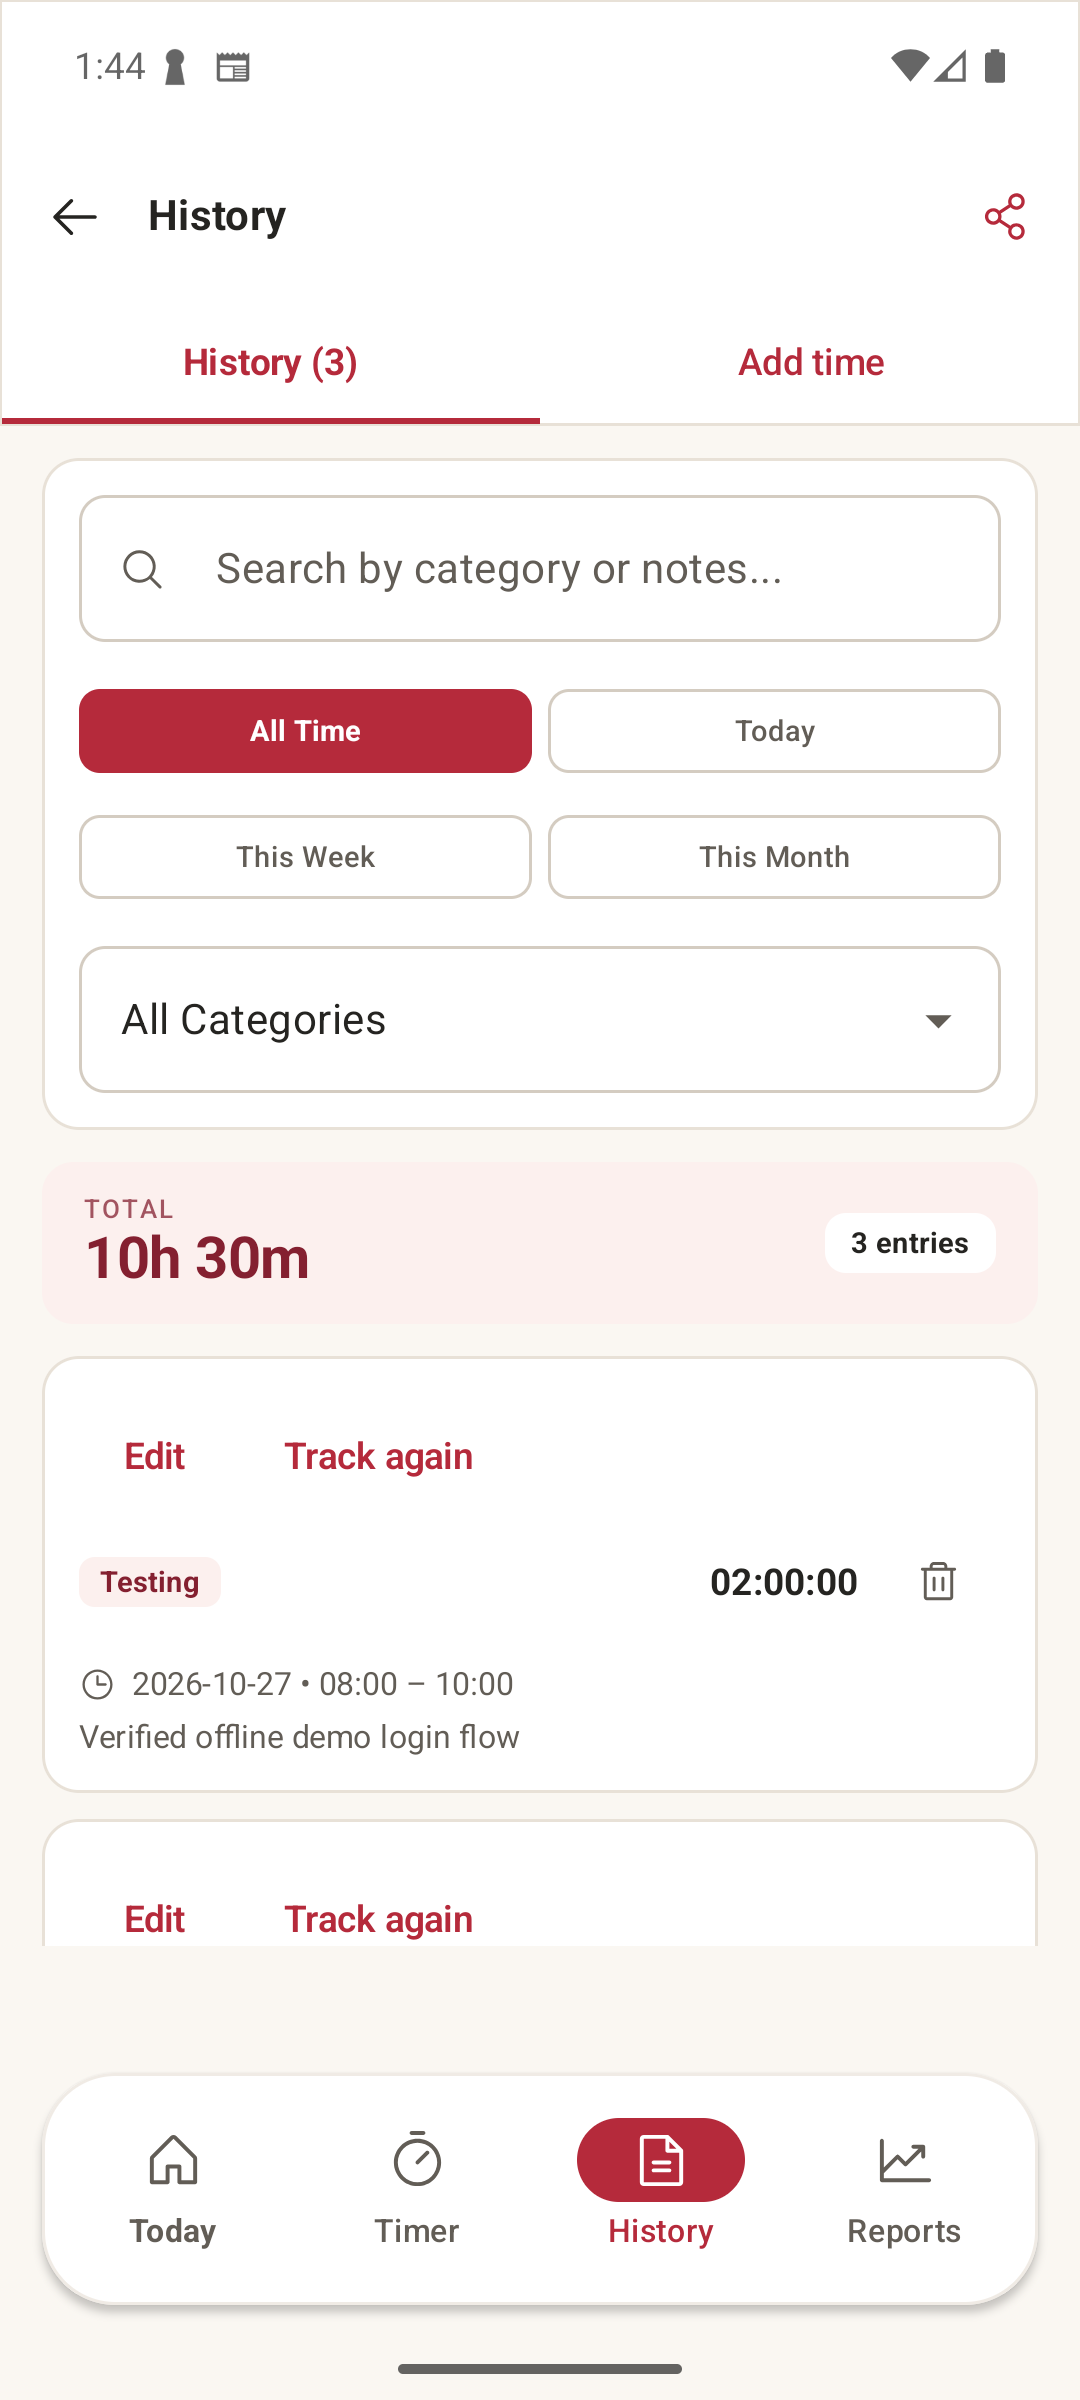
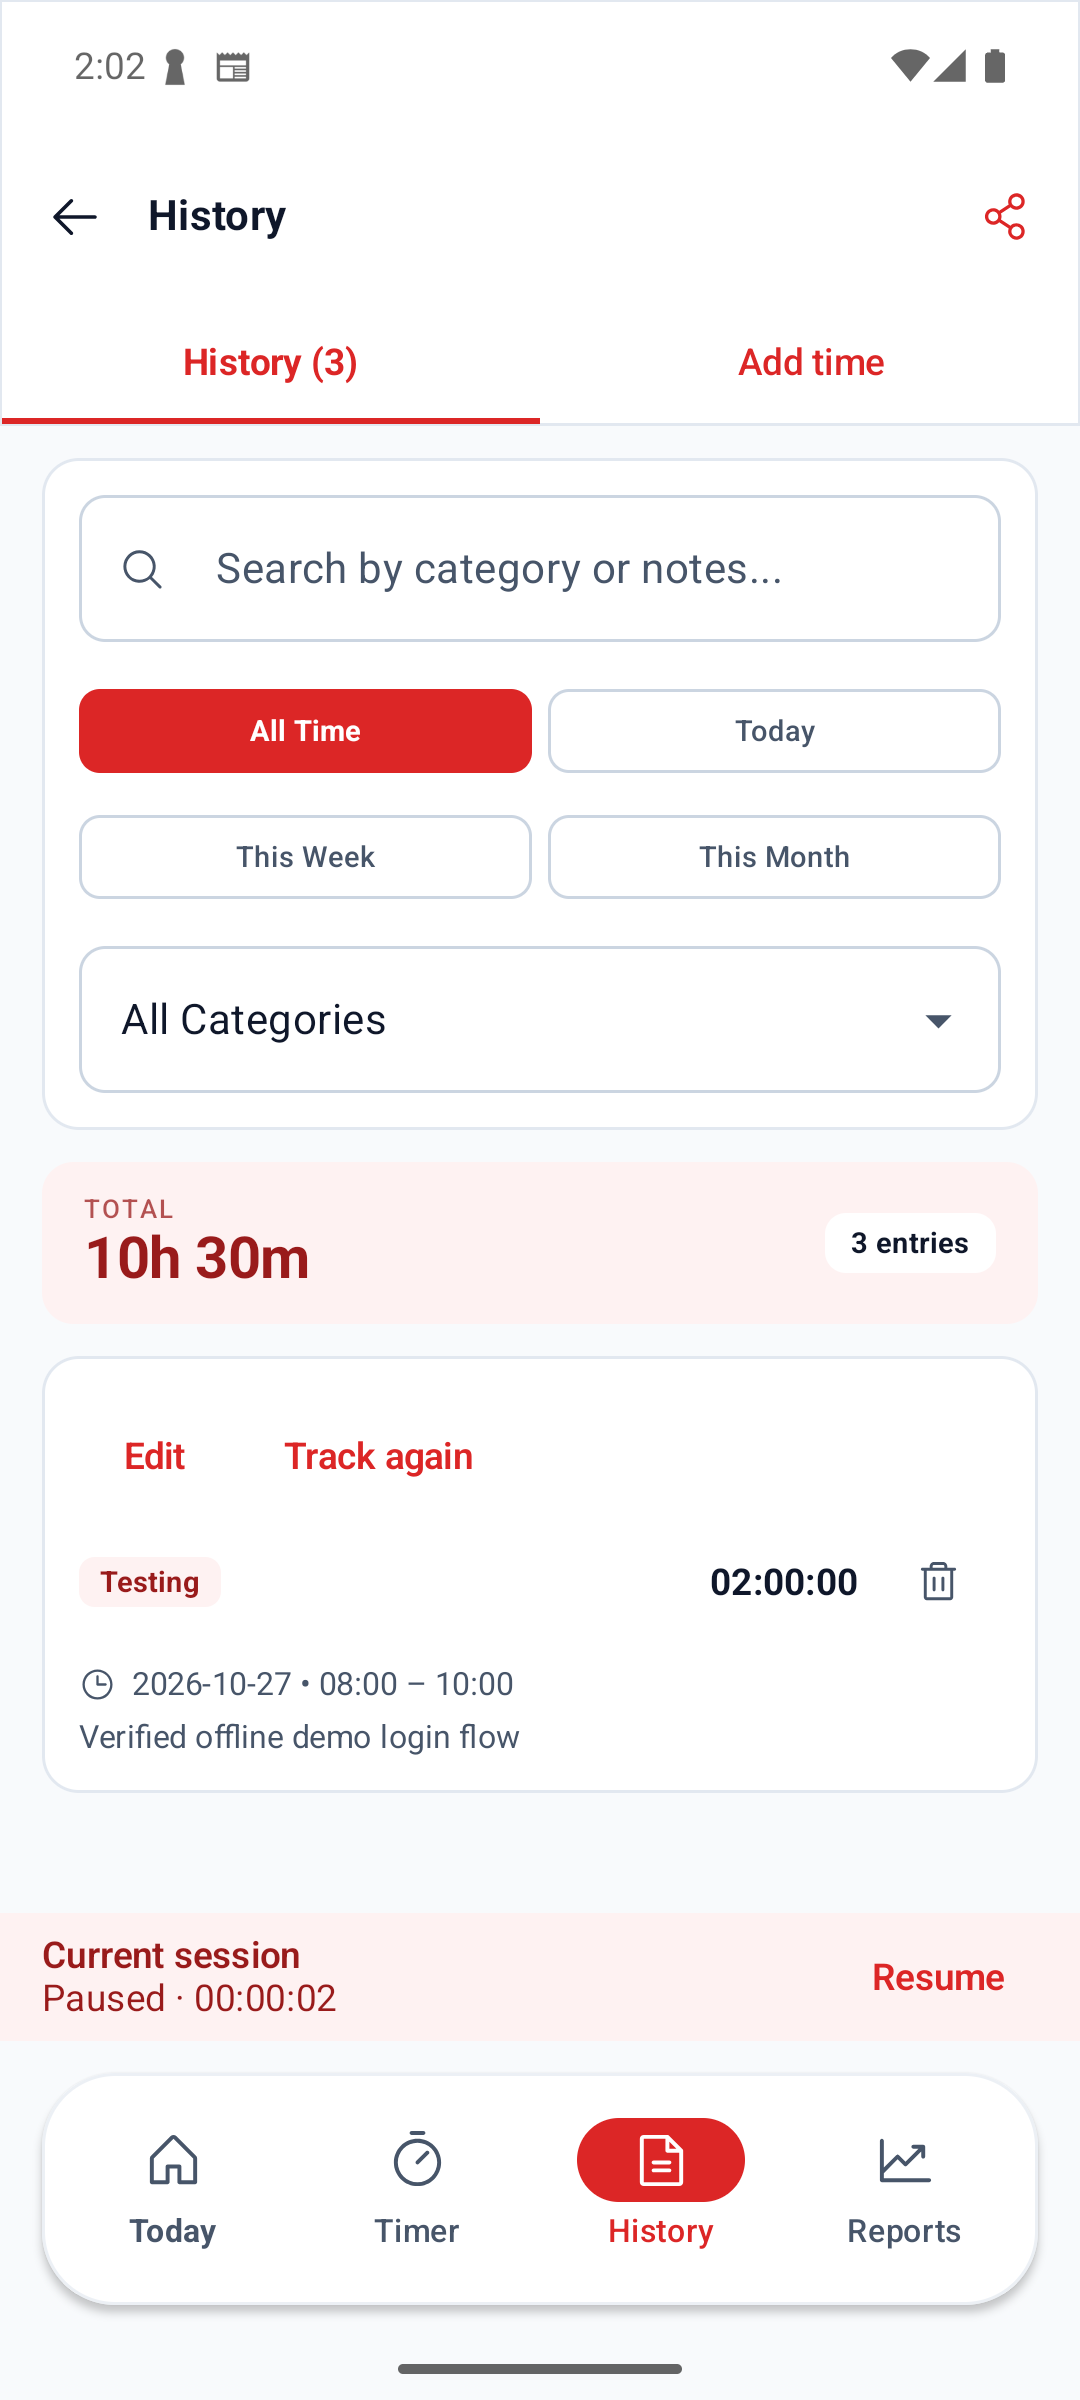
Restore Ace red theme and target-and-arrow identity

diff --git a/app/src/main/java/com/example/acetimetracker/ui/theme/Color.kt b/app/src/main/java/com/example/acetimetracker/ui/theme/Color.kt
@@ -2,23 +2,23 @@ package com.example.acetimetracker.ui.theme
 
 import androidx.compose.ui.graphics.Color
 
-// Ace brand: crimson, warm ivory and charcoal.
-val AceRed = Color(0xFFB52A3B) // Deep Ruby Crimson (Tailwind Red 600)
-val AceRedDark = Color(0xFF842030)
-val AceRedLight = Color(0xFFF8E0E2)
-val AceRedSubtle = Color(0xFFFCF0EE)
+// Premium AceTimeTracker Palette (Modern Executive Design System)
+val AceRed = Color(0xFFDC2626) // Deep Ruby Crimson (Tailwind Red 600)
+val AceRedDark = Color(0xFF991B1B)
+val AceRedLight = Color(0xFFFEE2E2)
+val AceRedSubtle = Color(0xFFFEF2F2)
 
-// Shared neutral tokens (names retained for existing components).
-val Slate900 = Color(0xFF252421)
-val Slate800 = Color(0xFF34322F)
-val Slate700 = Color(0xFF494641)
-val Slate600 = Color(0xFF625D56)
-val Slate500 = Color(0xFF797269)
-val Slate400 = Color(0xFFA49C92)
-val Slate300 = Color(0xFFD4CCC1)
-val Slate200 = Color(0xFFE8E1D7)
-val Slate100 = Color(0xFFF2EDE5)
-val Slate50 = Color(0xFFFAF7F2)
+// Slate Neutral System (Linear / Apple aesthetic)
+val Slate900 = Color(0xFF0F172A)
+val Slate800 = Color(0xFF1E293B)
+val Slate700 = Color(0xFF334155)
+val Slate600 = Color(0xFF475569)
+val Slate500 = Color(0xFF64748B)
+val Slate400 = Color(0xFF94A3B8)
+val Slate300 = Color(0xFFCBD5E1)
+val Slate200 = Color(0xFFE2E8F0)
+val Slate100 = Color(0xFFF1F5F9)
+val Slate50 = Color(0xFFF8FAFC)
 
 // Sophisticated Accents
 val AccentEmerald = Color(0xFF10B981)
@@ -75,7 +75,7 @@ val OutlineVariantLight = Slate200
 val PrimaryDark = Color(0xFFF87171)
 val OnPrimaryDark = Color(0xFF450A0A)
 val PrimaryContainerDark = Color(0xFF7F1D1D)
-val OnPrimaryContainerDark = Color(0xFFF8E0E2)
+val OnPrimaryContainerDark = Color(0xFFFEE2E2)
 
 val SecondaryDark = Slate200
 val OnSecondaryDark = Slate900

diff --git a/app/src/main/java/com/example/acetimetracker/ui/activity/SplashActivity.kt b/app/src/main/java/com/example/acetimetracker/ui/activity/SplashActivity.kt
@@ -88,9 +88,8 @@ fun SplashScreen(modifier: Modifier = Modifier) {
                 color = MaterialTheme.colorScheme.surface,
                 border = androidx.compose.foundation.BorderStroke(1.dp, MaterialTheme.colorScheme.outlineVariant)
             ) {
-                androidx.compose.material3.Icon(
+                Image(
                     painter = painterResource(R.drawable.ace_mark), contentDescription = null,
-                    tint = MaterialTheme.colorScheme.primary,
                     modifier = Modifier.padding(20.dp).size(112.dp)
                 )
             }

diff --git a/app/src/main/java/com/example/acetimetracker/ui/screen/MainScreen.kt b/app/src/main/java/com/example/acetimetracker/ui/screen/MainScreen.kt
@@ -284,7 +284,7 @@ private fun TodayHeroCard(
     Surface(
         modifier = Modifier.fillMaxWidth(),
         shape = RoundedCornerShape(20.dp),
-        color = Slate900
+        color = AceRed
     ) {
         Column(modifier = Modifier.padding(24.dp)) {
             Text(

diff --git a/HANDOFF.md b/HANDOFF.md
@@ -74,3 +74,9 @@ User approved the proposed visual/usability direction and requested implementati
 Verification: 90 JVM tests and 3 device tests passed. Final debug/release builds and both lint variants passed (279 warnings, zero errors). Device tests preceded only the final large-font label adjustment; final JVM/lint/build checks include it. Rendered splash in both themes and bottom dock at 320dp/1.5x font; fixed word wrapping found in that preview. Demo device checks verified Today → Add time, History, report → Timer, and editing/saving a sample entry returning to the same three-entry history. No live account or backend mutation performed.
 
 Release outputs rebuilt and remain unsigned; older checksums above are superseded. Personal .idea changes remain excluded. No source graph refresh tool is available; portable context is current.
+
+## Owner brand correction — 2026-11-16
+
+The owner rejected the A-ring and warm palette as a loss of Ace identity. Restored the original bright-red/slate/white tokens and red dashboard. Replaced the A-ring with simplified red target rings and a blue dart, using matching vector, adaptive launcher, notification silhouette and SVG assets. Retained all navigation/form/empty-state improvements and the brief splash reveal. Refreshed README screenshots.
+
+Verification: local suite and debug/release APK, release bundle and lintRelease passed. Splash preview rendered (preview continued to display a monochrome cached rendering; source uses Image to preserve vector colors). Installed rebuilt debug app and checked navigation while refreshing screenshots. No data or backend changes. Existing release-signing/publication limitations remain.

diff --git a/MEMORY.md b/MEMORY.md
@@ -8,4 +8,4 @@
 - Preserve existing source and IDE changes; do not change the permanent package ID or deploy to the configured Firebase project without verified ownership and explicit scope.
 - See HANDOFF.md for current validation, artifacts, and remaining release requirements.
 
-- Approved November 16 visual direction: warm ivory, charcoal and restrained crimson, with a vector A/clock mark. Primary labels are Today, Timer, History and Reports; Add time is an explicit form route. Large-font navigation uses Log/Stats with full accessibility descriptions.
+- Correction from owner: preserve Ace’s bright red/crisp neutral theme and target-and-arrow identity. The ivory/muted crimson and generic A-ring redesign was rejected. Do not interpret usability improvements as permission to replace the brand identity. Primary labels are Today, Timer, History and Reports; Add time is an explicit form route. Large-font navigation uses Log/Stats with full accessibility descriptions.
